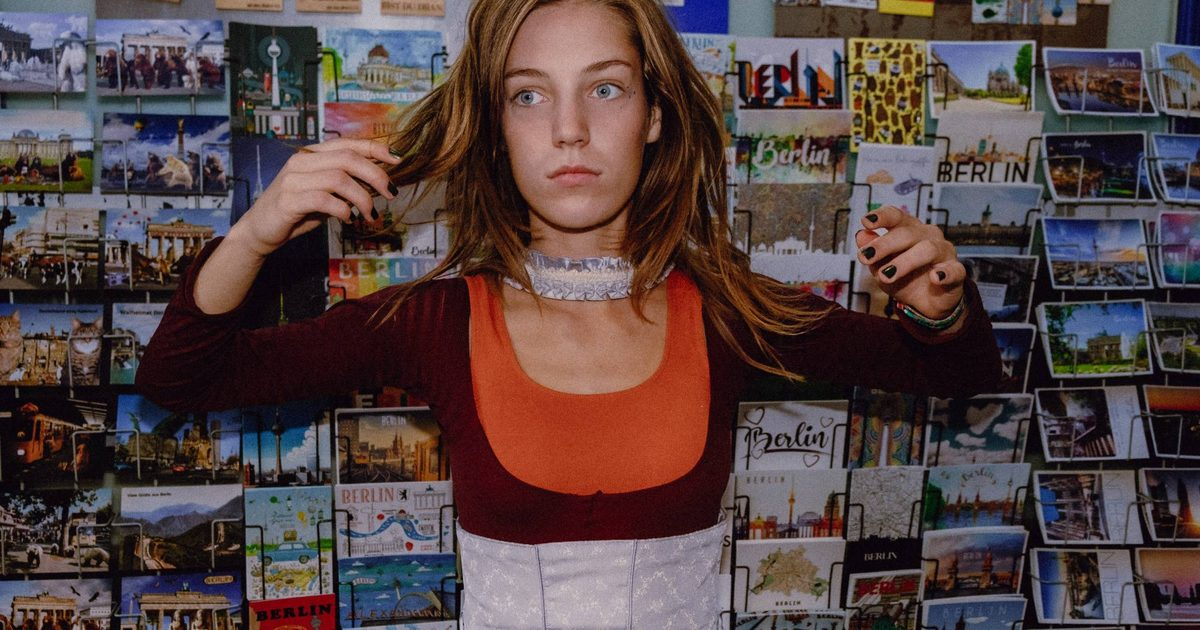
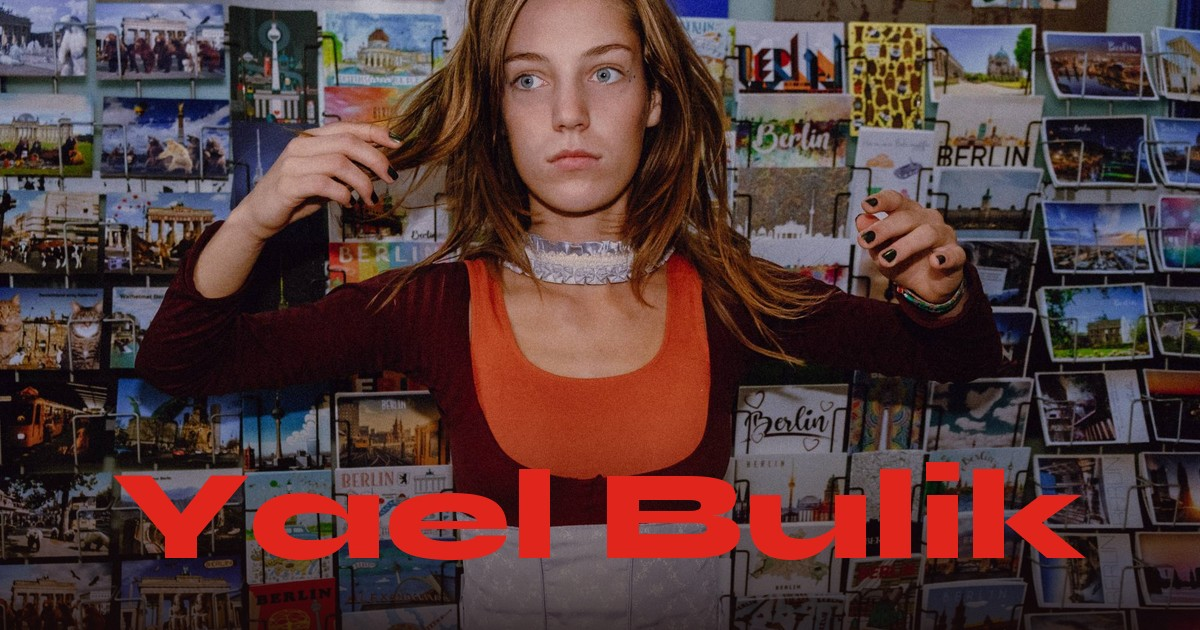
neue vorschau Teilen

diff --git a/index.html b/index.html
@@ -11,7 +11,14 @@
   <meta property="og:description" content="Yael Bulik – Mode und Kunst aus Berlin. Kleidung, Objekte, Kostüm und Bilder.">
   <meta property="og:title" content="Yael Bulik — Mode &amp; Kunst">
   <meta property="og:type" content="website">
-  <meta property="og:image" content="https://yaelbulik.github.io/assets/img/share.jpg">
+  <meta property="og:site_name" content="Yael Bulik">
+  <meta property="og:locale" content="de_DE">
+  <meta property="og:url" content="https://yaelbulik.github.io/">
+  <meta property="og:image" content="https://yaelbulik.github.io/assets/img/share.jpg?v=2">
+  <meta property="og:image:width" content="1200">
+  <meta property="og:image:height" content="630">
+  <meta property="og:image:alt" content="Yael Bulik vor einer Postkartenwand in Berlin, darüber der Name in Rot">
+  <meta name="twitter:card" content="summary_large_image">
   <link rel="icon" href="assets/favicon.svg" type="image/svg+xml">
 
   <!-- Schriften: vor dem Livegang lokal hosten (DSGVO) – siehe README -->

diff --git a/arbeiten.html b/arbeiten.html
@@ -11,7 +11,14 @@
   <meta property="og:title" content="Arbeiten — Yael Bulik">
   <meta property="og:description" content="Alle Arbeiten von Yael Bulik: Mode, Kunst und Objekte aus Berlin.">
   <meta property="og:type" content="website">
-  <meta property="og:image" content="https://yaelbulik.github.io/assets/img/share.jpg">
+  <meta property="og:site_name" content="Yael Bulik">
+  <meta property="og:locale" content="de_DE">
+  <meta property="og:url" content="https://yaelbulik.github.io/arbeiten.html">
+  <meta property="og:image" content="https://yaelbulik.github.io/assets/img/share.jpg?v=2">
+  <meta property="og:image:width" content="1200">
+  <meta property="og:image:height" content="630">
+  <meta property="og:image:alt" content="Yael Bulik vor einer Postkartenwand in Berlin, darüber der Name in Rot">
+  <meta name="twitter:card" content="summary_large_image">
   <link rel="icon" href="assets/favicon.svg" type="image/svg+xml">
 
   <!-- Schriften: vor dem Livegang lokal hosten (DSGVO) – siehe README -->

diff --git a/arbeit.html b/arbeit.html
@@ -11,7 +11,14 @@
   <meta property="og:title" content="Arbeit — Yael Bulik">
   <meta property="og:description" content="Eine Arbeit von Yael Bulik – Mode und Kunst aus Berlin.">
   <meta property="og:type" content="website">
-  <meta property="og:image" content="https://yaelbulik.github.io/assets/img/share.jpg">
+  <meta property="og:site_name" content="Yael Bulik">
+  <meta property="og:locale" content="de_DE">
+  <meta property="og:url" content="https://yaelbulik.github.io/arbeit.html">
+  <meta property="og:image" content="https://yaelbulik.github.io/assets/img/share.jpg?v=2">
+  <meta property="og:image:width" content="1200">
+  <meta property="og:image:height" content="630">
+  <meta property="og:image:alt" content="Yael Bulik vor einer Postkartenwand in Berlin, darüber der Name in Rot">
+  <meta name="twitter:card" content="summary_large_image">
   <link rel="icon" href="assets/favicon.svg" type="image/svg+xml">
 
   <link rel="preconnect" href="https://fonts.googleapis.com">

diff --git a/kontakt.html b/kontakt.html
@@ -11,7 +11,14 @@
   <meta property="og:title" content="Kontakt — Yael Bulik">
   <meta property="og:description" content="Kontakt zu Yael Bulik – Mode und Kunst aus Berlin.">
   <meta property="og:type" content="website">
-  <meta property="og:image" content="https://yaelbulik.github.io/assets/img/share.jpg">
+  <meta property="og:site_name" content="Yael Bulik">
+  <meta property="og:locale" content="de_DE">
+  <meta property="og:url" content="https://yaelbulik.github.io/kontakt.html">
+  <meta property="og:image" content="https://yaelbulik.github.io/assets/img/share.jpg?v=2">
+  <meta property="og:image:width" content="1200">
+  <meta property="og:image:height" content="630">
+  <meta property="og:image:alt" content="Yael Bulik vor einer Postkartenwand in Berlin, darüber der Name in Rot">
+  <meta name="twitter:card" content="summary_large_image">
   <link rel="icon" href="assets/favicon.svg" type="image/svg+xml">
 
   <link rel="preconnect" href="https://fonts.googleapis.com">

diff --git a/ueber.html b/ueber.html
@@ -11,7 +11,14 @@
   <meta property="og:title" content="Über — Yael Bulik">
   <meta property="og:description" content="Yael Bulik macht Mode und Kunst in Berlin.">
   <meta property="og:type" content="website">
-  <meta property="og:image" content="https://yaelbulik.github.io/assets/img/share.jpg">
+  <meta property="og:site_name" content="Yael Bulik">
+  <meta property="og:locale" content="de_DE">
+  <meta property="og:url" content="https://yaelbulik.github.io/ueber.html">
+  <meta property="og:image" content="https://yaelbulik.github.io/assets/img/share.jpg?v=2">
+  <meta property="og:image:width" content="1200">
+  <meta property="og:image:height" content="630">
+  <meta property="og:image:alt" content="Yael Bulik vor einer Postkartenwand in Berlin, darüber der Name in Rot">
+  <meta name="twitter:card" content="summary_large_image">
   <link rel="icon" href="assets/favicon.svg" type="image/svg+xml">
 
   <link rel="preconnect" href="https://fonts.googleapis.com">

diff --git a/impressum.html b/impressum.html
@@ -10,7 +10,14 @@
   <meta name="site-kind" content="other">
   <meta property="og:title" content="Impressum &amp; Datenschutz — Yael Bulik">
   <meta property="og:type" content="website">
-  <meta property="og:image" content="https://yaelbulik.github.io/assets/img/share.jpg">
+  <meta property="og:site_name" content="Yael Bulik">
+  <meta property="og:locale" content="de_DE">
+  <meta property="og:url" content="https://yaelbulik.github.io/impressum.html">
+  <meta property="og:image" content="https://yaelbulik.github.io/assets/img/share.jpg?v=2">
+  <meta property="og:image:width" content="1200">
+  <meta property="og:image:height" content="630">
+  <meta property="og:image:alt" content="Yael Bulik vor einer Postkartenwand in Berlin, darüber der Name in Rot">
+  <meta name="twitter:card" content="summary_large_image">
   <link rel="icon" href="assets/favicon.svg" type="image/svg+xml">
 
   <link rel="preconnect" href="https://fonts.googleapis.com">
